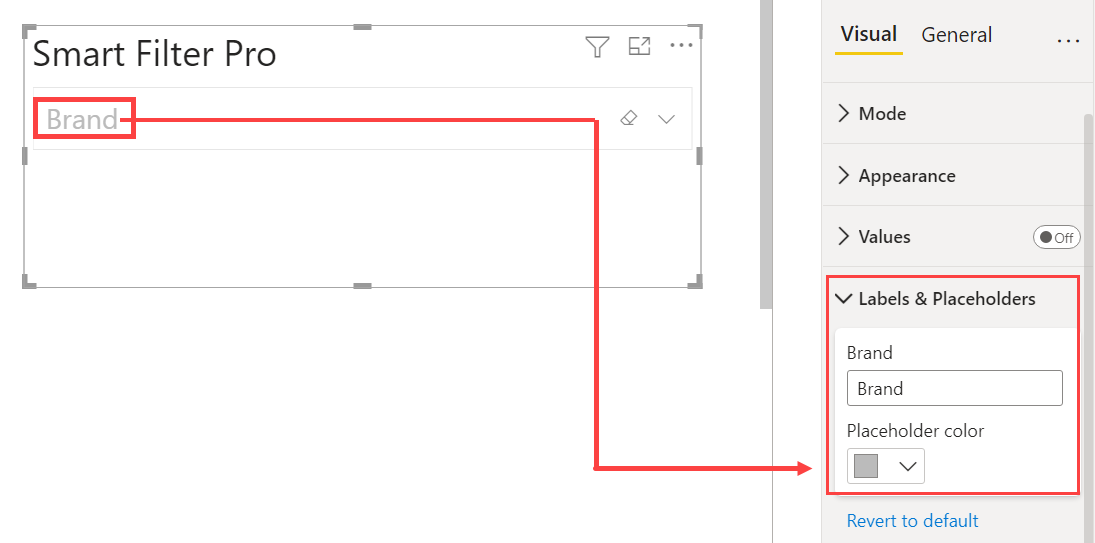
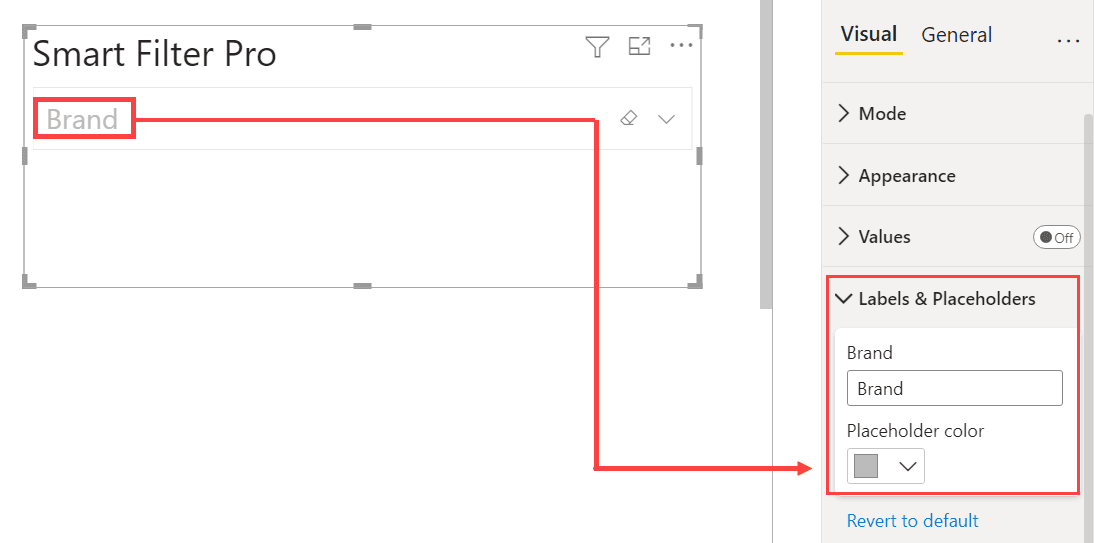
Fix image sizes

diff --git a/_docs/smart-filter-pro/values.md b/_docs/smart-filter-pro/values.md
@@ -20,12 +20,12 @@ The *Values* properties group allows you to play with the font, color, unit etc.
 
 This properties group is not available for all the five modes, but only for Dropdown, Observer, and Hierarchy mode as shown below respectively.    
 
-<img src="images/ValuesDropdownMode.png" width="550">    
+<img src="images/ValuesDropdownMode.png" width="650">    
 
 
 <img src="images/ValuesObserverMode.png" width="650">
 
-<img src="images/ValuesHierarchyMode.png" width="700">    
+<img src="images/ValuesHierarchyMode.png" width="650">    
  
 
 ## Display Unit   
@@ -36,33 +36,33 @@ This represents the display unit for the field used as Values – in Thousands, 
 
 *Auto* displays the most relevant display unit for each value depending on how big the number is.     
 
-<img src="images/Values4.png" width="600">    
+<img src="images/Values4.png" width="550">    
 
 ## Decimal Places   
 
 This represents the number of decimal places in the value – you can write it explicitly, or choose Auto.   
 
-<img src="images/Values5.png" width="500">   
+<img src="images/Values5.png" width="550">   
 
 *Auto* displays the most relevant decimal places for each value depending on the total number of decimal places each value has.    
 
-<img src="images/Values6.png" width="500">    
+<img src="images/Values6.png" width="550">    
 
 ## Font Color  
 
 This represents the font color of the values.  
 
-<img src="images/Values7.png" width="500"> 
+<img src="images/Values7.png" width="550"> 
 
 ## Font Family  
 
 This represents the font style/family of the values.  
 
-<img src="images/Values8.png" width="500">    
+<img src="images/Values8.png" width="550">    
 
 ## Text Size
 
 This represents the font size of the values.  
 
-<img src="images/Values9.png" width="500"> 
+<img src="images/Values9.png" width="550"> 
 

diff --git a/_docs/smart-filter-pro/labels.md b/_docs/smart-filter-pro/labels.md
@@ -14,7 +14,7 @@ The *Labels & Placeholders* properties group displays the field(s) name used in 
 
 Now if you change the field in the visual from Brand to Category, then the field name in the *Labels & Placeholders* section will automatically change.   
 
-<img src="images/Labels-Placeholders2.png" width="600">   
+<img src="images/Labels-Placeholders2.png" width="550">   
 
 The name of the field displayed in the visual can also be changed.  
 
@@ -22,4 +22,4 @@ The name of the field displayed in the visual can also be changed.
 
 For the Observer mode, the visual appearance of *Labels & Placeholders* is little different from the other modes. This section displays the field(s) name used in Smart Filter Pro for filtering data, as well as the font color, font family, and text size of the field in the input text box of Smart Filter Pro. 
 
-<img src="images/Labels-Placeholders4.png" width="600">  
+<img src="images/Labels-Placeholders4.png" width="550">  
